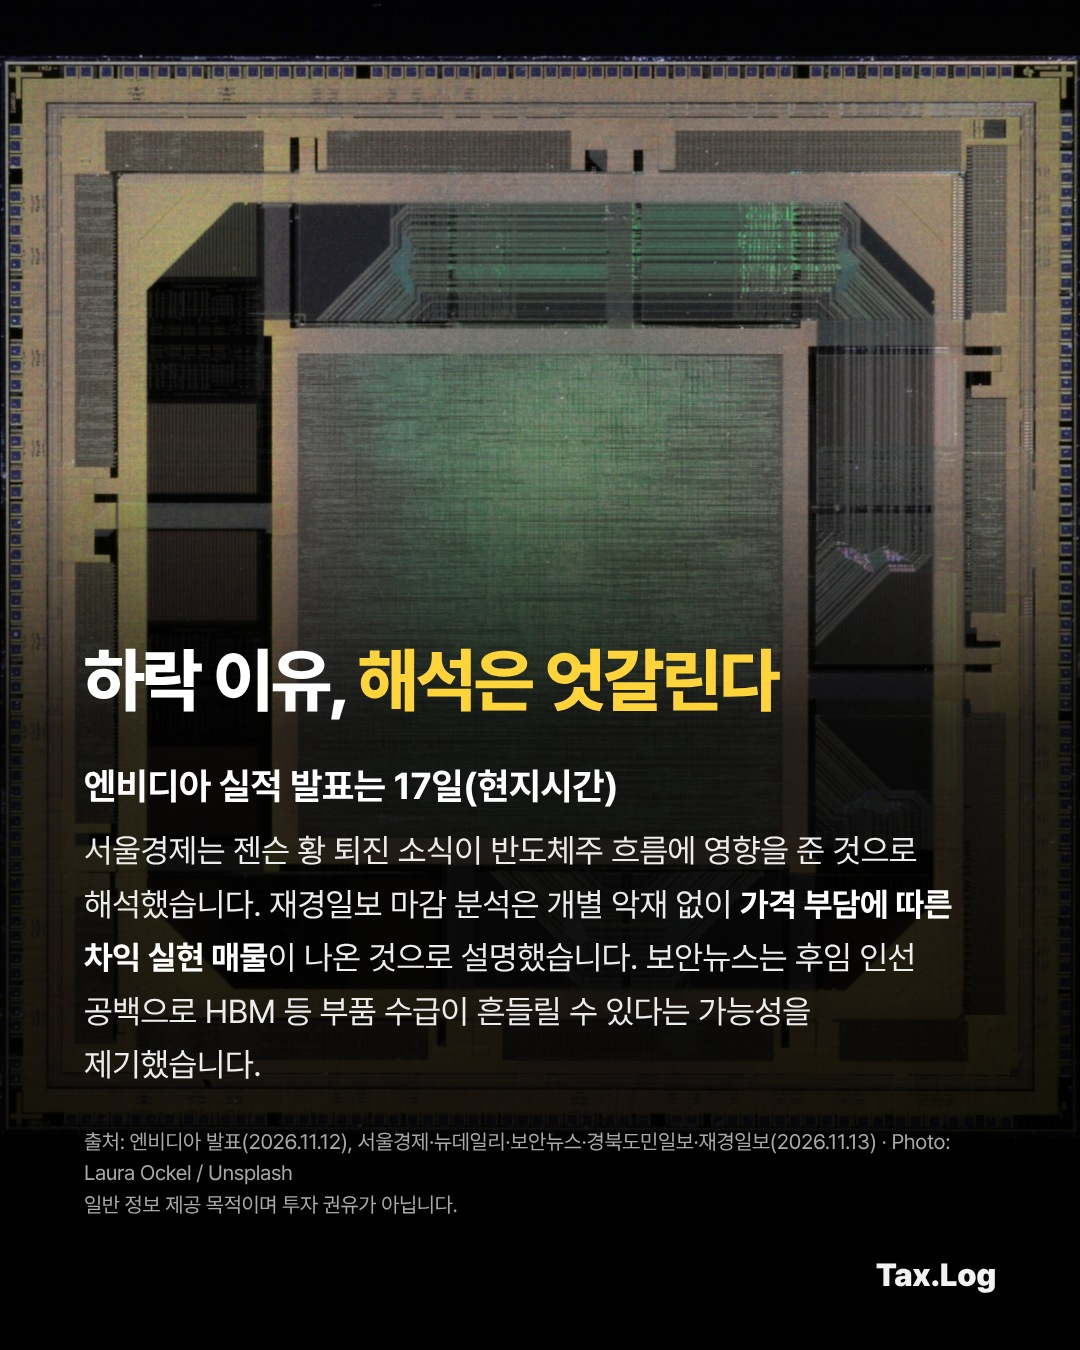
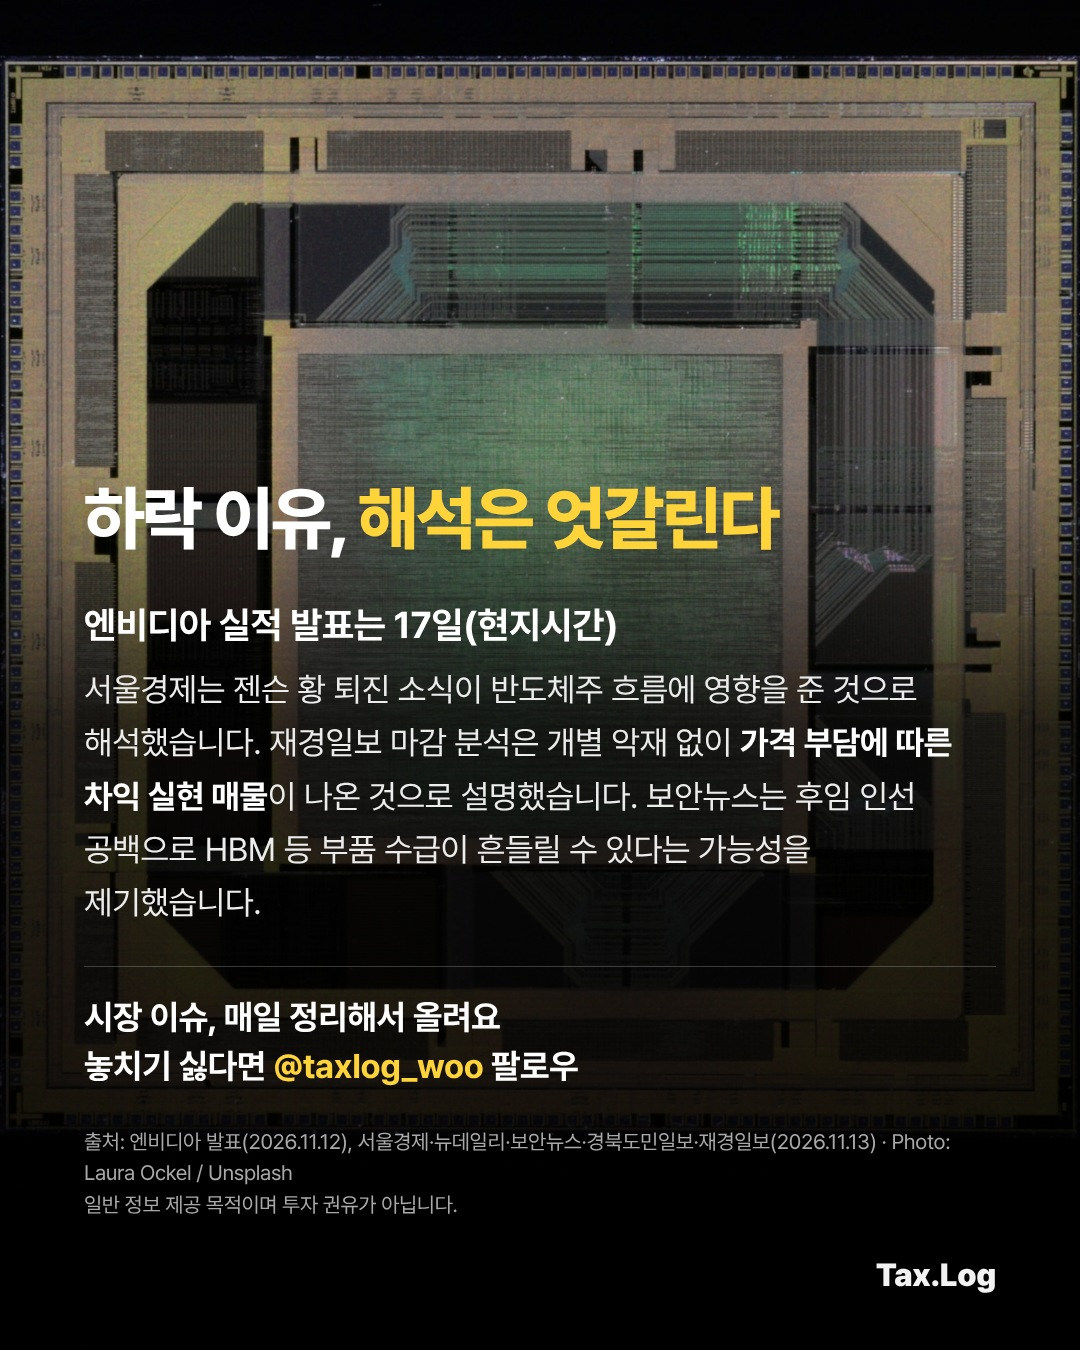
Follow CTA line on last slide
Claude-Session: https://claude.ai/code/session_01MKGHoYQ8wRLA48sPC8C4vQ

Changed region(s): [[0.0611, 0.4356, 0.8861, 0.8089], [0.0611, 0.3422, 0.7333, 0.4044]]

diff --git a/make_cards_mz.py b/make_cards_mz.py
@@ -6,7 +6,8 @@
 
 ★ 현재 표준(2026-11-13 사용자 확정): 모든 장에 실제 사진 배경 — 슬라이드마다 "photo"(저장소 경로, 예: photos/unsplash/<id>.jpg)와 "pos"를 지정.
   같은 촬영 세트에서 5장, 장마다 다른 사진. "scene"(폰 화면)·layout "text"/"number"/"split"은 쓰지 않음.
-  로고는 오른쪽 하단 Tax.Log만 자동 표시. 회사명·로고 반투명 오버레이는 쓰지 않음. 마지막 장 "foot"에 출처 + "Photo: 작가 / Unsplash" + 면책.
+  로고는 오른쪽 하단 Tax.Log만 자동 표시. 회사명·로고 반투명 오버레이는 쓰지 않음.
+  마지막 장에 "follow": "이런 소식 매일 받아보려면 [@taxlog_woo] 팔로우" 같은 팔로우 유도 한 줄(문구는 매번 다르게). 마지막 장 "foot"에 출처 + "Photo: 작가 / Unsplash" + 면책.
 
 사용법: python3 make_cards_mz.py spec.json out_dir   → out_dir/01.jpg ... (1080x1350)
 폰트: 저장소 fonts/ 의 Pretendard(SIL OFL 1.1)
@@ -216,6 +217,9 @@ def page(s, i, date):
         out += '<div class="wm2" style="bottom:66px;font-size:36px">Tax.Log</div>'  # 로고는 오른쪽 하단에만
     else:
         fine = f'<div class="fine">{fmt(s["foot"])}</div>' if s.get("foot") else ""
+        if s.get("follow"):  # 마지막 장 팔로우 유도 한 줄(사용자 요청 2026-11-13). [ ]는 노란 강조
+            fine = (f'<div style="margin-top:36px;padding-top:26px;border-top:1px solid rgba(255,255,255,.22);'
+                    f'font-weight:700;font-size:34px;line-height:1.45;color:#fff">{fmt(s["follow"], bold=False)}</div>') + fine
         bottom = 130
         out += (f'<div class="txt body" style="bottom:{bottom}px"><h2>{fmt(s["headline"], bold=False)}</h2>'
                 f'<h3>{fmt(s.get("sub",""), bold=False)}</h3><p>{fmt(s.get("body",""))}</p>{fine}</div>')

diff --git a/DESIGN_FEEDBACK.md b/DESIGN_FEEDBACK.md
@@ -19,3 +19,4 @@
 - 2026-11-13: 회사 로고·회사명 반투명 오버레이는 넣지 않음(통일). 브랜드는 실제 사진 속에 자연스럽게 찍힌 경우만.
 - 2026-11-13: 주제목(표지 제목·각 장 헤드라인) 글씨를 더 크게(표지 88px, 본문 헤드라인 70px).
 - 2026-11-13: 헤드라인이 커져서 한 줄 약 13자. 단어 하나만 다음 줄로 떨어지지 않게 짧게 쓰기.
+- 2026-11-13: 마지막 장에 팔로우 유도 한 줄("follow")을 꼭 넣기. 예: "놓치기 싫다면 [@taxlog_woo] 팔로우" — 문구는 매번 자연스럽게 바꾸기.
